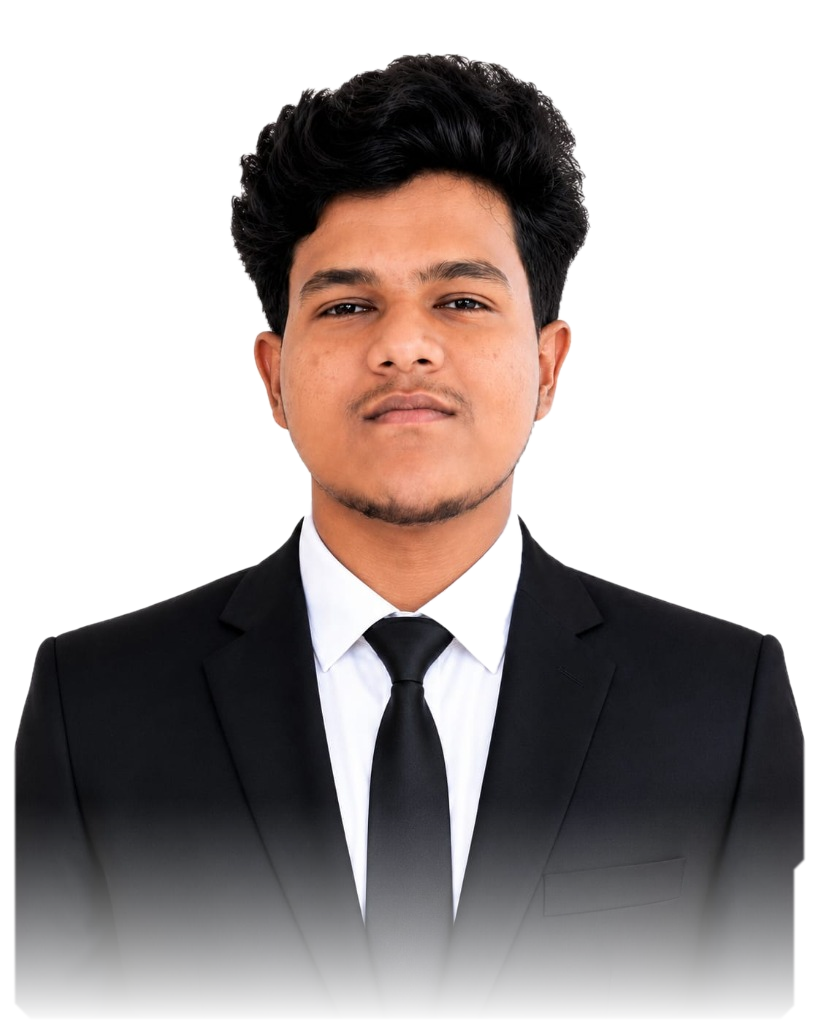
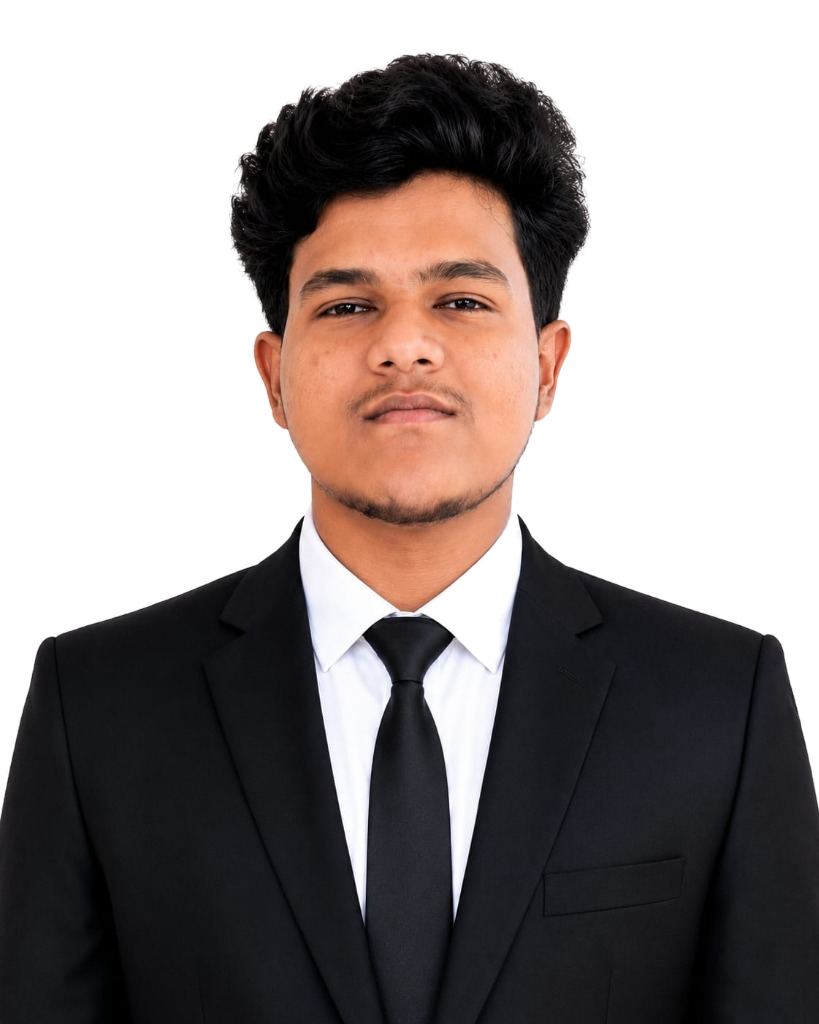
fix: restore 100% crystal-clear portrait opacity, remove dulling filters and add studio/cutout toggle

Changed region(s): [[0.0, 0.7188, 1.0, 1.0], [0.2747, 0.1562, 0.3053, 0.1875]]

diff --git a/src/components/Hero.jsx b/src/components/Hero.jsx
@@ -6,6 +6,7 @@ import { useMotion } from '../context/MotionContext';
 
 export default function Hero({ onOpenPalette }) {
   const { motionEnabled } = useMotion();
+  const [useOriginalPhoto, setUseOriginalPhoto] = React.useState(false);
 
   // Animation variants
   const containerVariants = {
@@ -166,49 +167,70 @@ export default function Hero({ onOpenPalette }) {
         {/* Right Column: Cinematic Editorial Portrait */}
         <motion.div
           variants={portraitVariants}
-          className="lg:col-span-5 relative flex items-center justify-center lg:justify-end mt-6 lg:mt-0"
+          className="lg:col-span-5 relative flex items-center justify-center lg:justify-end mt-8 lg:mt-0"
         >
           {/* Crimson aura / backdrop depth glow */}
-          <div className="absolute w-[320px] md:w-[420px] h-[380px] md:h-[480px] rounded-full bg-accent/20 blur-[100px] pointer-events-none -z-10" />
+          <div className="absolute w-[320px] md:w-[420px] h-[380px] md:h-[480px] rounded-full bg-accent/25 blur-[110px] pointer-events-none -z-10" />
           
           {/* Geometric Accent Frame Behind Portrait */}
-          <div className="absolute inset-x-8 md:inset-x-12 inset-y-6 rounded-3xl border border-white/10 bg-white/[0.01] pointer-events-none -z-10" />
+          <div className="absolute inset-x-4 md:inset-x-8 inset-y-4 rounded-3xl border border-white/10 bg-white/[0.02] pointer-events-none -z-10" />
 
-          {/* Portrait Container with Soft Gradient Bottom Fade */}
-          <div className="relative w-full max-w-[340px] md:max-w-[420px] lg:max-w-[460px] aspect-[4/5] flex items-end justify-center overflow-hidden">
-            {/* Editorial Portrait Cutout */}
-            <picture className="w-full h-full flex items-end justify-center">
-              <source srcSet={siteConfig.contact.portraitTransparent} type="image/png" />
+          {/* Portrait Container */}
+          <div className={`relative w-full max-w-[340px] md:max-w-[420px] lg:max-w-[460px] aspect-[4/5] flex items-end justify-center rounded-3xl overflow-hidden transition-all duration-300 ${
+            useOriginalPhoto
+              ? 'bg-[#141414] border border-white/15 p-2 shadow-2xl'
+              : 'border border-white/5'
+          }`}>
+            {/* Crystal Clear Editorial Portrait */}
+            {useOriginalPhoto ? (
               <img
                 src={siteConfig.contact.portraitOriginal}
                 alt="Asil Jamesha T — Software Developer"
-                className="w-full h-full object-contain object-bottom select-none filter contrast-[1.03] brightness-[0.98]"
+                className="w-full h-full object-cover object-top rounded-2xl select-none"
                 loading="eager"
-                style={{
-                  maskImage: 'linear-gradient(to bottom, black 72%, transparent 98%)',
-                  WebkitMaskImage: 'linear-gradient(to bottom, black 72%, transparent 98%)'
-                }}
               />
-            </picture>
+            ) : (
+              <div className="relative w-full h-full flex items-end justify-center">
+                <img
+                  src={siteConfig.contact.portraitTransparent}
+                  alt="Asil Jamesha T — Software Developer"
+                  className="w-full h-full object-contain object-bottom select-none"
+                  loading="eager"
+                />
+                {/* Minimal soft bottom blend */}
+                <div className="absolute bottom-0 inset-x-0 h-10 bg-gradient-to-t from-[#090909] to-transparent pointer-events-none" />
+              </div>
+            )}
 
             {/* Subtle Editorial Monogram Tag */}
-            <div className="absolute bottom-4 left-4 z-20 font-mono text-[11px] text-[#A09C9A] bg-[#0c0c0c]/85 border border-white/10 backdrop-blur-md px-3 py-1 rounded-full flex items-center gap-2">
+            <div className="absolute bottom-4 left-4 z-20 font-mono text-[11px] text-[#A09C9A] bg-[#0c0c0c]/90 border border-white/10 backdrop-blur-md px-3 py-1 rounded-full flex items-center gap-2 shadow-lg">
               <span className="w-1.5 h-1.5 rounded-full bg-accent animate-pulse" />
               <span>ASIL JAMESHA T · CHENNAI</span>
             </div>
 
-            {/* Quick CV Download floating tag on portrait */}
-            <a
-              href={siteConfig.contact.resumePdf}
-              download="Asil-Jamesha-Resume.pdf"
-              target="_blank"
-              rel="noopener noreferrer"
-              title="View CV"
-              className="absolute top-4 right-4 z-20 font-mono text-[10px] text-white hover:text-accent bg-[#0c0c0c]/90 border border-white/15 hover:border-accent backdrop-blur-md px-3 py-1.5 rounded-full flex items-center gap-1.5 transition-colors shadow-lg"
-            >
-              <FileText className="w-3.5 h-3.5 text-accent" />
-              <span>VIEW CV</span>
-            </a>
+            {/* Top Controls: View Mode Toggle & View CV */}
+            <div className="absolute top-4 right-4 z-20 flex items-center gap-2">
+              <button
+                type="button"
+                onClick={() => setUseOriginalPhoto(!useOriginalPhoto)}
+                className="font-mono text-[10px] tracking-wider text-[#F2EFEB] hover:text-white bg-[#0c0c0c]/90 hover:bg-[#1a1a1a] border border-white/15 hover:border-accent backdrop-blur-md px-2.5 py-1.5 rounded-full transition-colors shadow-lg"
+                title="Toggle Portrait View Mode"
+              >
+                {useOriginalPhoto ? 'STUDIO HD' : 'CUTOUT'}
+              </button>
+
+              <a
+                href={siteConfig.contact.resumePdf}
+                download="Asil-Jamesha-Resume.pdf"
+                target="_blank"
+                rel="noopener noreferrer"
+                title="View CV"
+                className="font-mono text-[10px] text-white hover:text-accent bg-[#0c0c0c]/90 border border-white/15 hover:border-accent backdrop-blur-md px-3 py-1.5 rounded-full flex items-center gap-1.5 transition-colors shadow-lg"
+              >
+                <FileText className="w-3.5 h-3.5 text-accent" />
+                <span>VIEW CV</span>
+              </a>
+            </div>
           </div>
         </motion.div>
       </motion.div>
